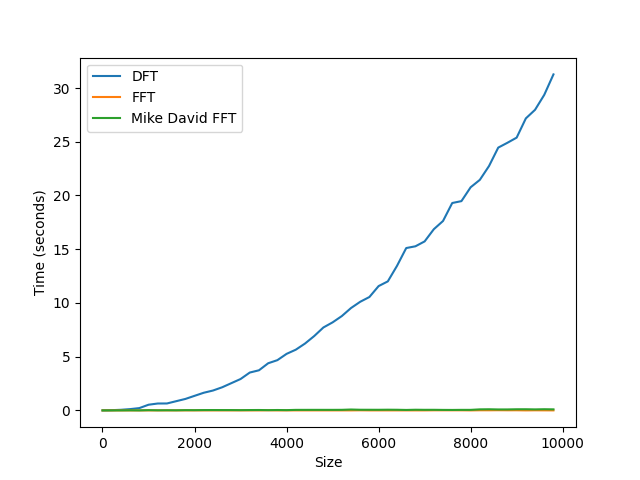
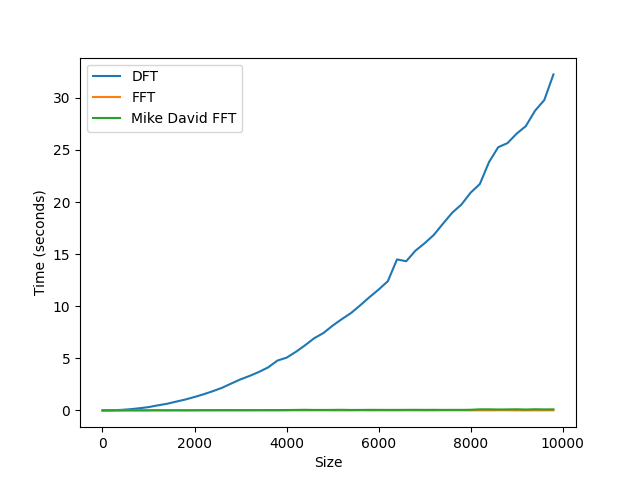
small changes

diff --git a/main.py b/main.py
@@ -10,15 +10,15 @@ import numpy as np
 import audio
 
 def main():
-    audio_recording = audio.record_audio()
-    audio_recording = audio.wav_to_array()
+    # audio_recording = audio.record_audio()
+    # audio_recording = audio.wav_to_array()
     # print(len(audio_recording))
-    generate_plots.plot_fft(numpy_fft.run_david_mike(audio_recording))
-    generate_plots.plot_fft(numpy_fft.run_fft(audio_recording))
-    generate_plots.plot_spectrogram(audio_recording)
+    # generate_plots.plot_fft(numpy_fft.run_david_mike(audio_recording))
+    # generate_plots.plot_fft(numpy_fft.run_fft(audio_recording))
+    # generate_plots.plot_spectrogram(audio_recording)
     # data = data_generation.generate_array(dictionary['size'])
     # generate_plots.plot_fft(numpy_fft.run_david_mike(data))
-    # generate_plots.size_time_graph(100000, 250)
+    generate_plots.size_time_graph(10000, 200)
 
 if __name__ == '__main__':
     with open('config.yml', 'r') as file:
